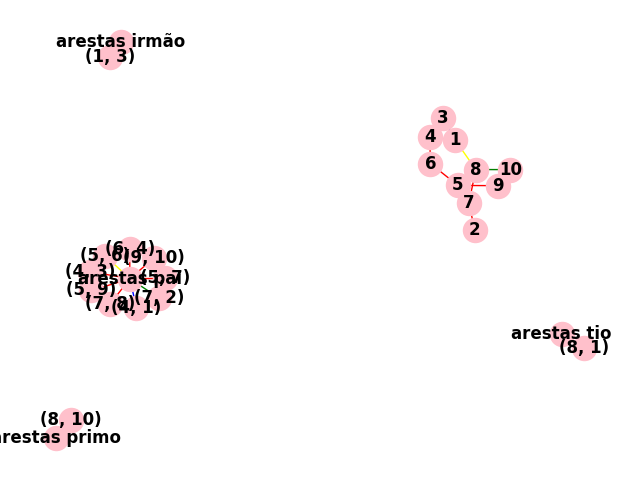
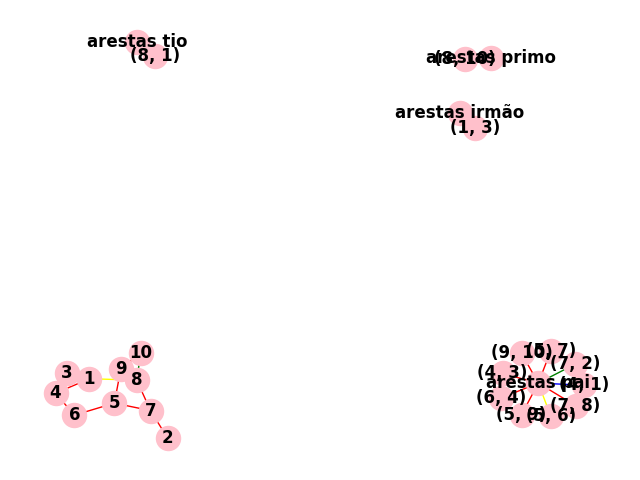
feat: :sparkles: coisas novas

diff --git a/graph.py b/graph.py
@@ -34,7 +34,6 @@ def plot_graph(graph):
     nx.draw(g, with_labels=True, font_weight='bold', node_color='pink')
     plt.savefig('graph.png')
 
-# TODO: Aplicar busca em largura no grafo
 
 def bfs(graph, start):
     print(len(graph))
@@ -80,6 +79,11 @@ def aresta_tipo(graph, parent, level):
                     conjunto ['arestas tio'].append((node, connection))
                 print(f'{node} -> {connection} é aresta de tio')
 
+    if conjunto['arestas irmão'] == [] and conjunto['arestas primo'] == []:
+        print('é bipartido')
+    else:
+        print(f'Não é bipartido pois tem arestas de irmão {conjunto["arestas irmão"]} ou primo {conjunto["arestas primo"]}')
+       
     print(conjunto)
     plot_arvore(conjunto, graph)
     
